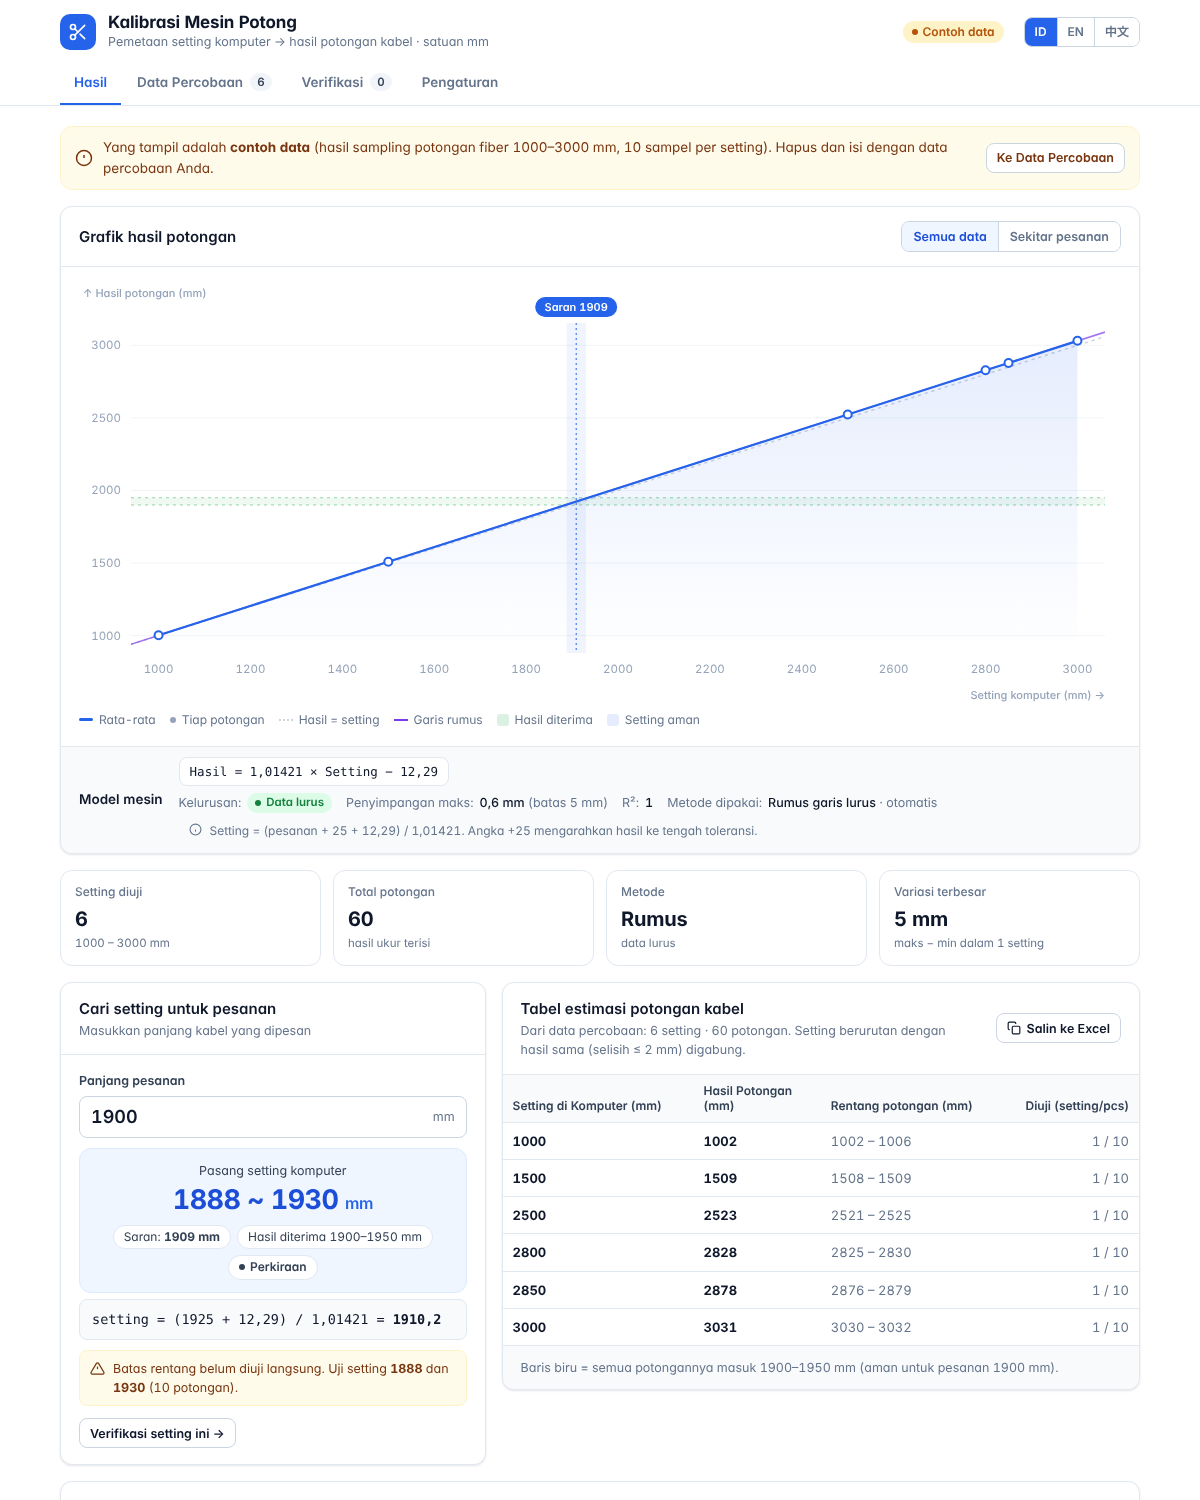
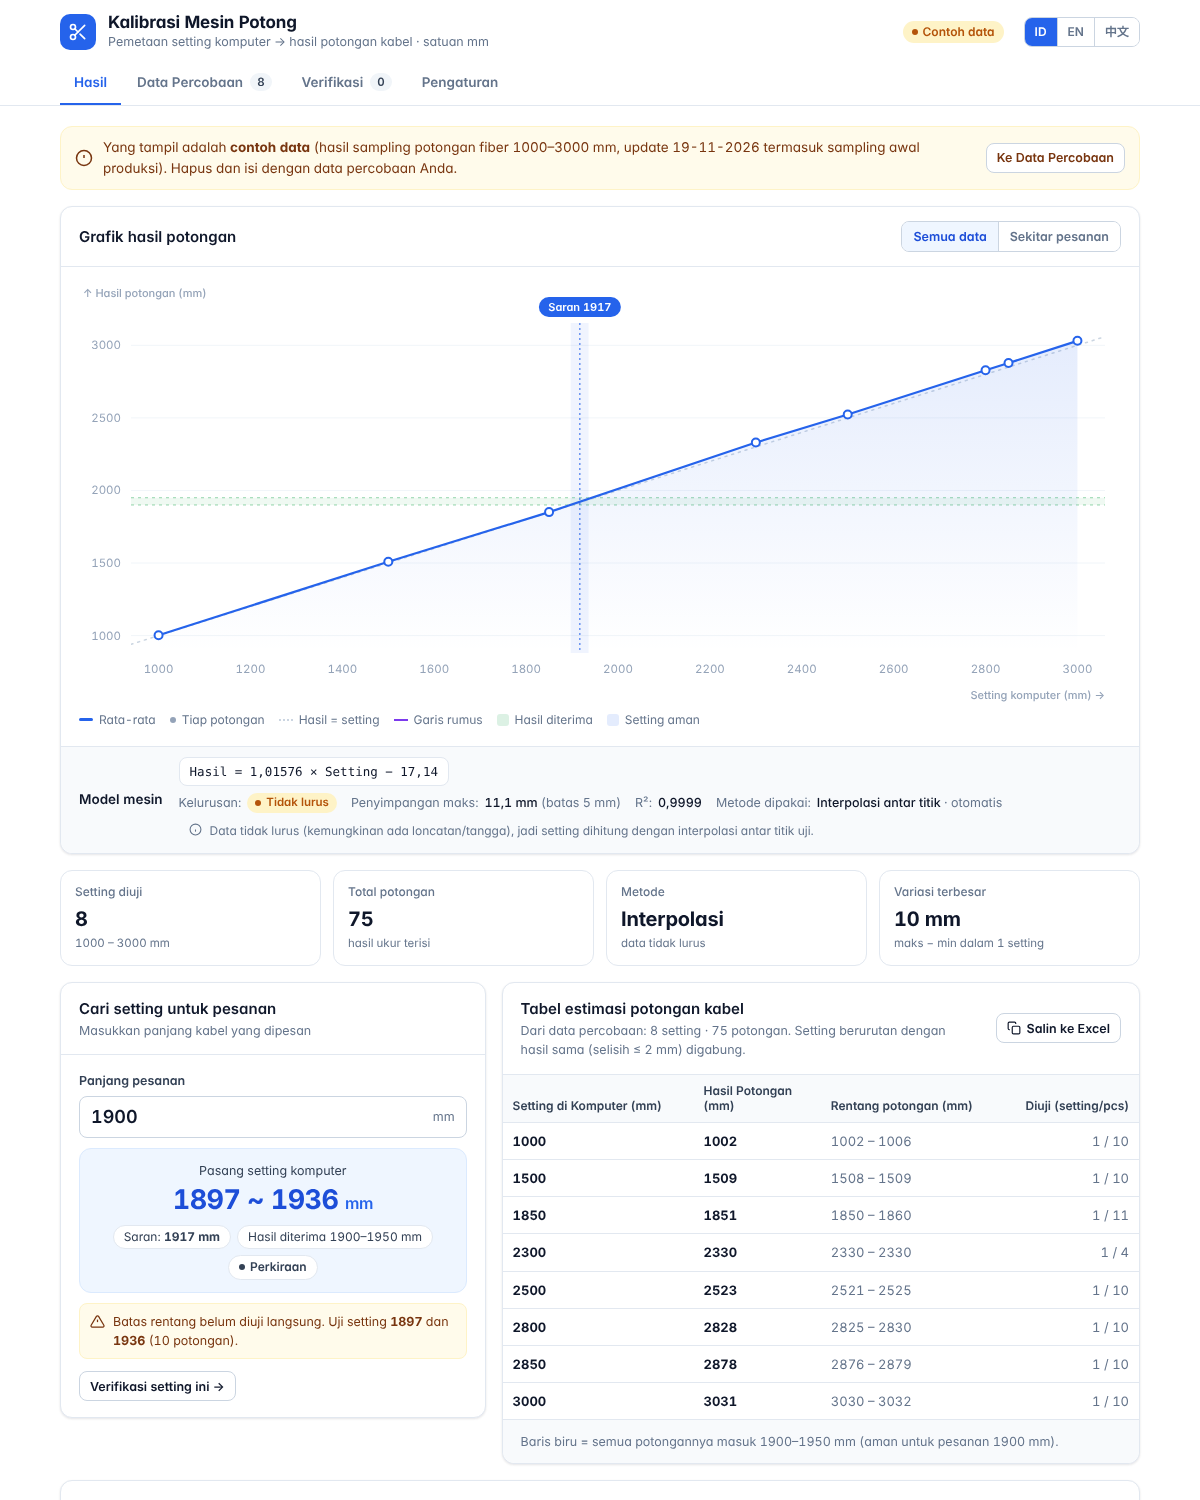
Update sample data with 19-11-2026 sampling (adds 1850 & 2300 mm)
- Sample data now includes production-start sampling at 1850 and 2300 mm
- Stage 2: gaps > 100 mm are split into quarters first instead of every 10 mm

Claude-Session: https://claude.ai/code/session_012YpKXFKuL8qfAd7MSWeyxr

diff --git a/index.html b/index.html
@@ -460,7 +460,8 @@ function suggestions(S,rmin,rmax,lookupRows){
   for(let i=0;i<S.length-1;i++){
     const a=S[i],b=S[i+1],gap=b.sp-a.sp,jump=Math.abs((b.mean-a.mean)-slope*gap); // loncatan = menyimpang dari tren
     if(jump<=5)continue;
-    if(gap>10){for(let s=Math.ceil((a.sp+1)/10)*10;s<b.sp;s+=10)if(!tested.has(s))t2.add(s);}
+    if(gap>100){[.25,.5,.75].forEach(f=>{const s=Math.round((a.sp+gap*f)/10)*10;if(s>a.sp&&s<b.sp&&!tested.has(s))t2.add(s);});} // jarak besar: bagi 4 dulu
+    else if(gap>10){for(let s=Math.ceil((a.sp+1)/10)*10;s<b.sp;s+=10)if(!tested.has(s))t2.add(s);}
     else if(gap>1){const m=Math.round((a.sp+b.sp)/2);if(!tested.has(m))t3.add(m);}
   }
   (lookupRows||[]).forEach(r=>r&&r.segs&&r.segs.forEach(sg=>{[sg.a,sg.b].forEach(e=>{if(!tested.has(e))t3.add(e);});}));
@@ -475,7 +476,7 @@ id:{
  'brand.title':'Kalibrasi Mesin Potong','brand.sub':'Pemetaan setting komputer → hasil potongan kabel · satuan mm',
  'tab.hasil':'Hasil','tab.data':'Data Percobaan','tab.ver':'Verifikasi','tab.set':'Pengaturan',
  'badge.sample':'Contoh data','badge.user':'Data Anda',
- 'banner.txt':'Yang tampil adalah <b>contoh data</b> (hasil sampling potongan fiber 1000–3000 mm, 10 sampel per setting). Hapus dan isi dengan data percobaan Anda.','banner.btn':'Ke Data Percobaan',
+ 'banner.txt':'Yang tampil adalah <b>contoh data</b> (hasil sampling potongan fiber 1000–3000 mm, update 19-11-2026 termasuk sampling awal produksi). Hapus dan isi dengan data percobaan Anda.','banner.btn':'Ke Data Percobaan',
  'empty.title':'Belum cukup data','empty.txt':'Isi minimal 2 setting yang sudah ada hasil ukurnya untuk melihat tabel setting.','empty.btn':'Mulai isi data percobaan',
  'find.title':'Cari setting untuk pesanan','find.desc':'Masukkan panjang kabel yang dipesan','find.label':'Panjang pesanan',
  'model.title':'Model mesin',
@@ -524,7 +525,7 @@ id:{
  'ts.set':'Setting','ts.n':'Terisi','ts.mean':'Rata-rata','ts.min':'Min','ts.max':'Maks','ts.sel':'Selisih','ts.var':'Variasi',
  'v.ok':'stabil','v.mid':'sedang','v.bad':'besar',
  'st.no':'Tahap {n}','st1.t':'Pemetaan kasar','st1.d':'Setting per 50 mm di seluruh rentang pesanan.','st1.p':'({d}/{t} selesai)','st1.done':'Semua titik per 50 mm sudah ada','st1.rec':'Rekomendasi','st1.nInc':'{n} setting belum lengkap','st1.dMan0':'Mengikuti setting yang Anda tambahkan di Data percobaan. Belum ada setting — tambahkan lewat kolom Setting komputer di bawah.','st1.man':'Manual','st1.dMan':'Mengikuti setting di Data percobaan: {d}/{n} setting lengkap (8 potongan). Klik angka untuk mengisi yang belum lengkap.','st1.doneMan':'Semua {n} setting manual sudah lengkap',
- 'st2.t':'Perapatan','st2.d':'Per 10 mm di area yang hasilnya meloncat.','st2.done':'Tidak ada loncatan yang perlu dirapatkan',
+ 'st2.t':'Perapatan','st2.d':'Di area yang hasilnya menyimpang dari tren: jarak > 100 mm dibagi 4 dulu, lalu per 10 mm.','st2.done':'Tidak ada loncatan yang perlu dirapatkan',
  'st3.t':'Batas presisi','st3.d':'Per mm di titik loncatan dan batas rentang tabel.','st3.done':'Semua batas sudah diuji',
  'st.n':'{n} setting disarankan','st.wait1':'Menunggu data Tahap 1','st.wait':'Menunggu data','st.add':'Tambahkan {n} setting','st.more':'+{n} lagi',
  'ax.x':'Setting komputer (mm)','ax.y':'Hasil potongan (mm)',
@@ -544,7 +545,7 @@ en:{
  'brand.title':'Cutting Machine Calibration','brand.sub':'Mapping computer setting → cable cut result · unit mm',
  'tab.hasil':'Results','tab.data':'Trial Data','tab.ver':'Verification','tab.set':'Settings',
  'badge.sample':'Sample data','badge.user':'Your data',
- 'banner.txt':'You are viewing <b>sample data</b> (fiber cut sampling 1000–3000 mm, 10 samples per setting). Clear it and enter your own trial data.','banner.btn':'Go to Trial Data',
+ 'banner.txt':'You are viewing <b>sample data</b> (fiber cut sampling 1000–3000 mm, updated 19-11-2026 incl. production start sampling). Clear it and enter your own trial data.','banner.btn':'Go to Trial Data',
  'empty.title':'Not enough data','empty.txt':'Enter at least 2 settings with measured results to see the setting table.','empty.btn':'Start entering trial data',
  'find.title':'Find setting for an order','find.desc':'Enter the ordered cable length','find.label':'Order length',
  'model.title':'Machine model',
@@ -593,7 +594,7 @@ en:{
  'ts.set':'Setting','ts.n':'Filled','ts.mean':'Average','ts.min':'Min','ts.max':'Max','ts.sel':'Difference','ts.var':'Variation',
  'v.ok':'stable','v.mid':'medium','v.bad':'large',
  'st.no':'Stage {n}','st1.t':'Coarse mapping','st1.d':'Settings every 50 mm across the order range.','st1.p':'({d}/{t} done)','st1.done':'All 50 mm points are present','st1.rec':'Recommended','st1.nInc':'{n} settings incomplete','st1.dMan0':'Follows the settings you add in Trial data. No settings yet — add them with the Computer setting field below.','st1.man':'Manual','st1.dMan':'Follows the settings in Trial data: {d}/{n} complete (8 cuts). Click a number to fill an incomplete one.','st1.doneMan':'All {n} manual settings are complete',
- 'st2.t':'Refinement','st2.d':'Every 10 mm in areas where the result jumps.','st2.done':'No jumps to refine',
+ 'st2.t':'Refinement','st2.d':'Where results deviate from the trend: gaps > 100 mm are split into 4 first, then every 10 mm.','st2.done':'No jumps to refine',
  'st3.t':'Precise limits','st3.d':'Every 1 mm at jump points and table range limits.','st3.done':'All limits tested',
  'st.n':'{n} settings suggested','st.wait1':'Waiting for Stage 1 data','st.wait':'Waiting for data','st.add':'Add {n} settings','st.more':'+{n} more',
  'ax.x':'Computer setting (mm)','ax.y':'Cut result (mm)',
@@ -613,7 +614,7 @@ zh:{
  'brand.title':'裁切机校准','brand.sub':'电脑设定值 → 线缆裁切结果对照 · 单位 mm',
  'tab.hasil':'结果','tab.data':'试验数据','tab.ver':'验证','tab.set':'设置',
  'badge.sample':'示例数据','badge.user':'您的数据',
- 'banner.txt':'当前显示的是<b>示例数据</b>（光纤裁切抽样 1000–3000 mm，每个设定值 10 个样本）。请清除后输入您的试验数据。','banner.btn':'前往试验数据',
+ 'banner.txt':'当前显示的是<b>示例数据</b>（光纤裁切抽样 1000–3000 mm，2026-11-19 更新，含生产初期抽样）。请清除后输入您的试验数据。','banner.btn':'前往试验数据',
  'empty.title':'数据不足','empty.txt':'请至少输入 2 个已有测量结果的设定值，才能查看设定对照表。','empty.btn':'开始输入试验数据',
  'find.title':'查找订单设定值','find.desc':'输入订单线缆长度','find.label':'订单长度',
  'model.title':'机器模型',
@@ -662,7 +663,7 @@ zh:{
  'ts.set':'设定值','ts.n':'已填','ts.mean':'平均值','ts.min':'最小','ts.max':'最大','ts.sel':'差值','ts.var':'波动',
  'v.ok':'稳定','v.mid':'中等','v.bad':'较大',
  'st.no':'阶段 {n}','st1.t':'粗略映射','st1.d':'在订单范围内每 50 mm 一个设定值。','st1.p':'（已完成 {d}/{t}）','st1.done':'每 50 mm 的点已齐全','st1.rec':'推荐','st1.nInc':'{n} 个设定值未完成','st1.dMan0':'按您在试验数据中添加的设定值进行。尚无设定值 — 请在下方“电脑设定值”中添加。','st1.man':'手动','st1.dMan':'按试验数据中的设定值：已完成 {d}/{n}（8 根）。点击数字填写未完成的设定值。','st1.doneMan':'{n} 个手动设定值均已完成',
- 'st2.t':'加密','st2.d':'在结果跳变区域每 10 mm 一个。','st2.done':'没有需要加密的跳变',
+ 'st2.t':'加密','st2.d':'在结果偏离趋势的区域：间隔 > 100 mm 先分成 4 段，再每 10 mm 一个。','st2.done':'没有需要加密的跳变',
  'st3.t':'精确边界','st3.d':'在跳变点和表格范围端点每 1 mm 一个。','st3.done':'所有边界均已测试',
  'st.n':'建议 {n} 个设定值','st.wait1':'等待阶段 1 数据','st.wait':'等待数据','st.add':'添加 {n} 个设定值','st.more':'另有 {n} 个',
  'ax.x':'电脑设定值 (mm)','ax.y':'裁切结果 (mm)',
@@ -1006,7 +1007,7 @@ const OLD_FIELDS=['tolMin','tolPlus','rmin','rmax','rstep','order','mode'];
 function simpan(){try{localStorage.setItem('kmp3',JSON.stringify({g:GROUPS,v:VERS,c:isContoh,fo:Object.fromEntries(FIELDS.map(i=>[i,$(i).value]))}));}catch(e){}}
 function muat(){try{const j=JSON.parse(localStorage.getItem('kmp3')||localStorage.getItem('kmp2')||'null');if(!j)return false;if(Array.isArray(j.g))GROUPS=j.g;if(Array.isArray(j.v))VERS=j.v;isContoh=!!j.c;const fo=j.fo||(Array.isArray(j.f)?Object.fromEntries(OLD_FIELDS.map((i,k)=>[i,j.f[k]])):{});FIELDS.forEach(i=>{if(fo[i]!=null&&fo[i]!=='')$(i).value=fo[i];});return true;}catch(e){return false;}}
 // Contoh data: hasil sampling potongan fiber 1000–3000 mm (file Hasil_Sampling_Potongan_Fiber_1000mm_-_3000mm.xlsx)
-const SAMPLE_DATA={1000:[1006,1002,1002,1002,1002,1002,1002,1002,1002,1002],1500:[1509,1508,1508,1509,1509,1509,1508,1509,1508,1508],2500:[2523,2521,2522,2524,2525,2522,2523,2524,2522,2523],2800:[2825,2829,2826,2827,2828,2827,2829,2828,2830,2829],2850:[2879,2876,2877,2877,2877,2879,2878,2878,2878,2878],3000:[3031,3031,3031,3030,3032,3031,3031,3031,3031,3030]};
+const SAMPLE_DATA={1000:[1006,1002,1002,1002,1002,1002,1002,1002,1002,1002],1500:[1509,1508,1508,1509,1509,1509,1508,1509,1508,1508],1850:[1850,1850,1850,1850,1850,1850,1850,1850,1850,1850,1860],2300:[2330,2330,2330,2330],2500:[2523,2521,2522,2524,2525,2522,2523,2524,2522,2523],2800:[2825,2829,2826,2827,2828,2827,2829,2828,2830,2829],2850:[2879,2876,2877,2877,2877,2879,2878,2878,2878,2878],3000:[3031,3031,3031,3030,3032,3031,3031,3031,3031,3030]};
 function contoh(){
   GROUPS=Object.keys(SAMPLE_DATA).map(Number).sort((a,b)=>a-b).map(sp=>({sp,vals:SAMPLE_DATA[sp].map(String)}));
   $('rmin').value=1000;$('rmax').value=3000;$('newN').value=10;

diff --git a/README.md b/README.md
@@ -39,7 +39,7 @@ Toleransi mesin potong tidak konstan di semua ukuran. Hubungan antara setting di
   1. **Pemetaan kasar**, dengan dua pilihan:
      - *Rekomendasi*: per 50 mm di rentang pesanan.
      - *Manual*: mengikuti setting yang ditambahkan sendiri.
-  2. **Perapatan**: per 10 mm di area yang hasilnya meloncat.
+  2. **Perapatan**: di area yang hasilnya menyimpang dari tren, jarak > 100 mm dibagi 4 dulu, lalu per 10 mm.
   3. **Batas presisi**: per mm di titik loncatan dan batas rentang tabel.
 - Input **satu kolom per potongan**:
   - Validasi otomatis: merah jika bukan angka atau selisih >10% dari setting.
@@ -103,7 +103,7 @@ README.md
 ## Batasan
 
 - Data disimpan di **browser masing-masing perangkat** (localStorage). Data tidak otomatis tersinkron antar perangkat atau antar pengguna, dan bisa hilang jika cache browser dibersihkan. Untuk berbagi, gunakan **Salin ke Excel** atau impor CSV.
-- Contoh data bawaan berasal dari **hasil sampling potongan fiber** (setting 1000, 1500, 2500, 2800, 2850, 3000 mm; 10 sampel per setting). Data ini hanya contoh dan perlu dilengkapi untuk rentang 1500–2500 mm.
+- Contoh data bawaan berasal dari **hasil sampling potongan fiber** (update 19-11-2026): setting 1000, 1500, 1850, 2300, 2500, 2800, 2850, 3000 mm. Setting 1850 dan 2300 berasal dari sampling awal produksi. Data ini hanya contoh dan masih perlu dilengkapi.
 - Tidak ada fitur unduh file (CSV/Excel) di dalam pratinjau artifact. Fitur ini bisa ditambahkan setelah aplikasi berjalan di GitHub Pages.
 
 ---
